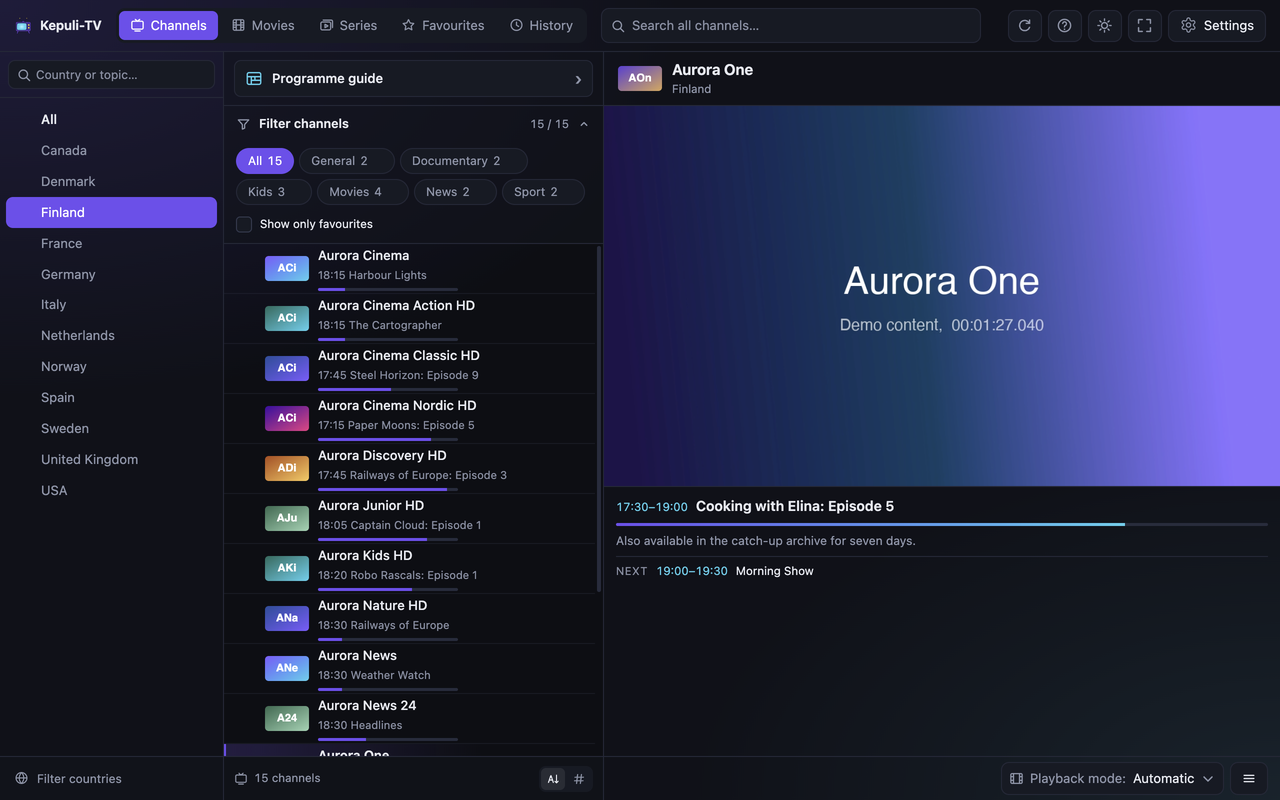
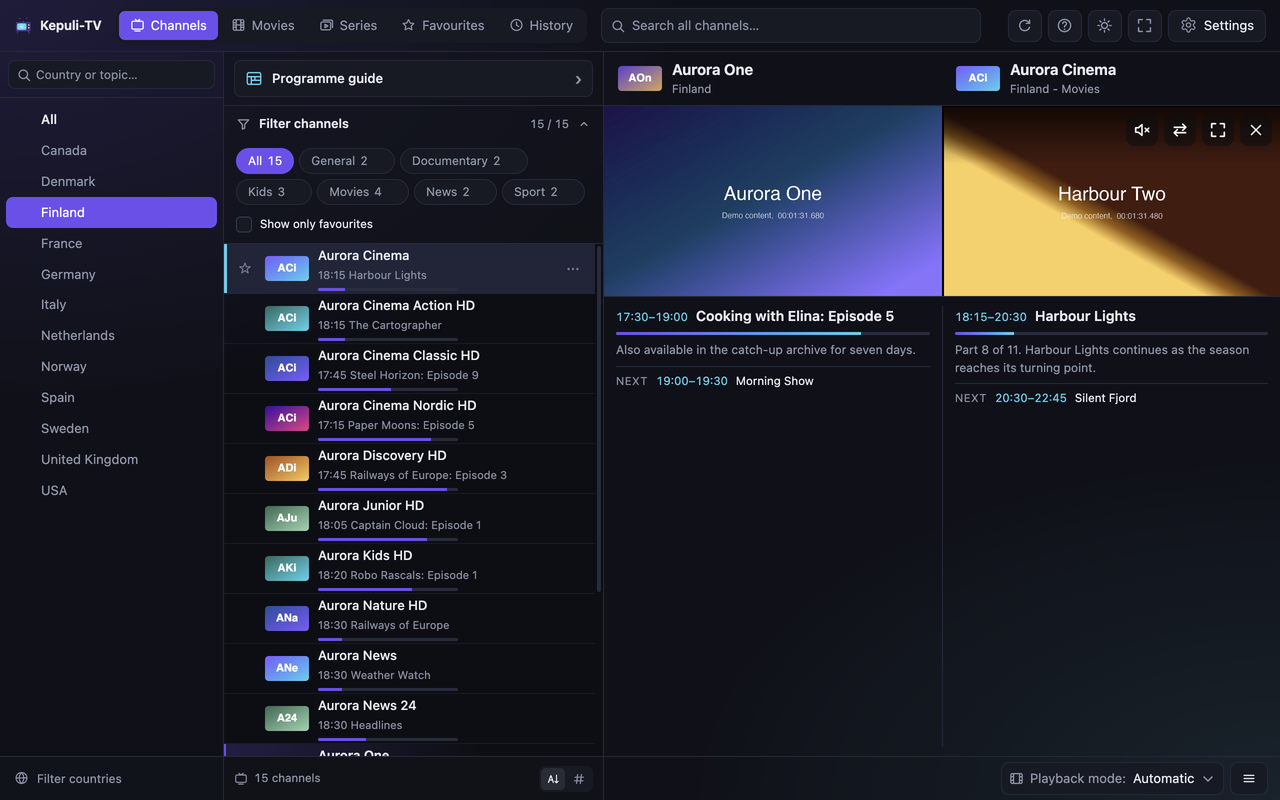
The first store picture shows two channels side by side
The channels view is where the second picture is opened, so the picture of
it plays two channels: dev/store-screenshots.mjs opens one from the row's
menu where the account allows two streams (the mock's does for these
pictures; the hosted demo's one stream leaves its picture as it was). Both
sets' 01-channels are retaken, its caption says so in every language, and
the visual check's three references of that view are the new ones; the
other views compare equal to the pixel and keep theirs.

Claude-Session: https://claude.ai/code/session_011jsMnu9xQB1gHrK5qZugQB

Changed region(s): [[0.1562, 0.0625, 1.0, 0.7188]]

diff --git a/docs/index.html b/docs/index.html
@@ -213,7 +213,7 @@
 </a>
 <p class="video-note">Opens on YouTube. Everything shown is fictional demo content.</p>
 <div class="shots">
-  <figure><a href="img/01-channels.png"><img src="img/01-channels.png" width="1280" height="800" loading="lazy" alt="Browse channels by country and topic while watching live TV."></a><figcaption>Browse channels by country and topic while watching live TV.</figcaption></figure>
+  <figure><a href="img/01-channels.png"><img src="img/01-channels.png" width="1280" height="800" loading="lazy" alt="Browse channels by country and topic while watching live TV. Two channels side by side."></a><figcaption>Browse channels by country and topic while watching live TV. Two channels side by side.</figcaption></figure>
   <figure><a href="img/02-guide.png"><img src="img/02-guide.png" width="1280" height="800" loading="lazy" alt="Explore the programme guide while playback continues in the mini-player."></a><figcaption>Explore the programme guide while playback continues in the mini-player.</figcaption></figure>
   <figure><a href="img/03-series.png"><img src="img/03-series.png" width="1280" height="800" loading="lazy" alt="Browse series details, seasons and episodes."></a><figcaption>Browse series details, seasons and episodes.</figcaption></figure>
   <figure><a href="img/04-subtitles.png"><img src="img/04-subtitles.png" width="1280" height="800" loading="lazy" alt="Play an MKV episode with text subtitles and choose their language and size."></a><figcaption>Play an MKV episode with text subtitles and choose their language and size.</figcaption></figure>
@@ -267,6 +267,8 @@ soon, and the channels you watched lately</li>
 you choose and every audio track, AC-3, E-AC-3 and DTS too</li>
   <li><strong>Recording</strong> of the channel you watch, or a programme planned from the guide,
 kept in the browser and saved as a file when you like</li>
+  <li><strong>Two channels side by side</strong>, when your subscription allows two streams or
+you have a second account</li>
   <li><strong>Favourites</strong> everywhere, personal channel lists, and only the countries and
 categories you choose</li>
   <li><strong>Several accounts</strong> side by side, and sync between computers through the

diff --git a/brand/firefox-screenshots/README.md b/brand/firefox-screenshots/README.md
@@ -14,7 +14,7 @@ would need a 2560 × 1600 window — so this set is captured at 1×.
 
 | File | AMO caption |
 | --- | --- |
-| 01-channels.png | Browse channels by country and topic while watching live TV. Shown with fictional demo content in Firefox. |
+| 01-channels.png | Browse channels by country and topic while watching live TV. Two channels side by side. Shown with fictional demo content in Firefox. |
 | 02-guide.png | Explore the programme guide while playback continues in the mini-player. Shown with fictional demo content in Firefox. |
 | 03-series.png | Browse series details, seasons and episodes. Shown with fictional demo content in Firefox. |
 | 04-subtitles.png | Play an MKV episode with text subtitles and choose their language and size. Shown with fictional demo content in Firefox. |
@@ -35,7 +35,7 @@ store/chrome-dashboard.txt.
 
 | File | Caption |
 | --- | --- |
-| 01-channels.png | Selaa kanavia maittain ja aiheittain samalla, kun katsot suoraa lähetystä. Kuvassa kuvitteellista demosisältöä Firefoxissa. |
+| 01-channels.png | Selaa kanavia maittain ja aiheittain samalla, kun katsot suoraa lähetystä. Kaksi kanavaa rinnakkain. Kuvassa kuvitteellista demosisältöä Firefoxissa. |
 | 02-guide.png | Tutki ohjelmaopasta, kun toisto jatkuu minisoittimessa. Kuvassa kuvitteellista demosisältöä Firefoxissa. |
 | 03-series.png | Selaa sarjan tietoja, tuotantokausia ja jaksoja. Kuvassa kuvitteellista demosisältöä Firefoxissa. |
 | 04-subtitles.png | Toista MKV-jakso tekstityksineen ja valitse tekstityksen kieli ja koko. Kuvassa kuvitteellista demosisältöä Firefoxissa. |
@@ -45,7 +45,7 @@ store/chrome-dashboard.txt.
 
 | File | Caption |
 | --- | --- |
-| 01-channels.png | Bläddra bland kanaler efter land och ämne medan du tittar på live-tv. Visas med påhittat demoinnehåll i Firefox. |
+| 01-channels.png | Bläddra bland kanaler efter land och ämne medan du tittar på live-tv. Två kanaler sida vid sida. Visas med påhittat demoinnehåll i Firefox. |
 | 02-guide.png | Utforska programguiden medan uppspelningen fortsätter i minispelaren. Visas med påhittat demoinnehåll i Firefox. |
 | 03-series.png | Bläddra bland seriens detaljer, säsonger och avsnitt. Visas med påhittat demoinnehåll i Firefox. |
 | 04-subtitles.png | Spela upp ett MKV-avsnitt med undertexter och välj deras språk och storlek. Visas med påhittat demoinnehåll i Firefox. |
@@ -55,7 +55,7 @@ store/chrome-dashboard.txt.
 
 | File | Caption |
 | --- | --- |
-| 01-channels.png | Bla gjennom kanaler etter land og emne mens du ser direkte-TV. Vist med oppdiktet demoinnhold i Firefox. |
+| 01-channels.png | Bla gjennom kanaler etter land og emne mens du ser direkte-TV. To kanaler side ved side. Vist med oppdiktet demoinnhold i Firefox. |
 | 02-guide.png | Utforsk programguiden mens avspillingen fortsetter i minispilleren. Vist med oppdiktet demoinnhold i Firefox. |
 | 03-series.png | Bla gjennom seriedetaljer, sesonger og episoder. Vist med oppdiktet demoinnhold i Firefox. |
 | 04-subtitles.png | Spill av en MKV-episode med undertekster og velg språk og størrelse på dem. Vist med oppdiktet demoinnhold i Firefox. |
@@ -65,7 +65,7 @@ store/chrome-dashboard.txt.
 
 | File | Caption |
 | --- | --- |
-| 01-channels.png | Durchstöbere Sender nach Land und Thema, während du Live-TV schaust. Gezeigt mit erfundenen Demo-Inhalten in Firefox. |
+| 01-channels.png | Durchstöbere Sender nach Land und Thema, während du Live-TV schaust. Zwei Sender nebeneinander. Gezeigt mit erfundenen Demo-Inhalten in Firefox. |
 | 02-guide.png | Erkunde den Programmführer, während die Wiedergabe im Mini-Player weiterläuft. Gezeigt mit erfundenen Demo-Inhalten in Firefox. |
 | 03-series.png | Durchstöbere Seriendetails, Staffeln und Folgen. Gezeigt mit erfundenen Demo-Inhalten in Firefox. |
 | 04-subtitles.png | Spiele eine MKV-Folge mit Untertiteln ab und wähle deren Sprache und Größe. Gezeigt mit erfundenen Demo-Inhalten in Firefox. |
@@ -75,7 +75,7 @@ store/chrome-dashboard.txt.
 
 | File | Caption |
 | --- | --- |
-| 01-channels.png | Blader door zenders op land en onderwerp terwijl je live-tv kijkt. Getoond met verzonnen demo-inhoud in Firefox. |
+| 01-channels.png | Blader door zenders op land en onderwerp terwijl je live-tv kijkt. Twee zenders naast elkaar. Getoond met verzonnen demo-inhoud in Firefox. |
 | 02-guide.png | Verken de programmagids terwijl het afspelen doorgaat in de minispeler. Getoond met verzonnen demo-inhoud in Firefox. |
 | 03-series.png | Bekijk de gegevens, seizoenen en afleveringen van een serie. Getoond met verzonnen demo-inhoud in Firefox. |
 | 04-subtitles.png | Speel een MKV-aflevering af met ondertiteling en kies de taal en grootte ervan. Getoond met verzonnen demo-inhoud in Firefox. |
@@ -85,7 +85,7 @@ store/chrome-dashboard.txt.
 
 | File | Caption |
 | --- | --- |
-| 01-channels.png | Parcours les chaînes par pays et par thème tout en regardant la télé en direct. Présenté avec du contenu de démonstration fictif dans Firefox. |
+| 01-channels.png | Parcours les chaînes par pays et par thème tout en regardant la télé en direct. Deux chaînes côte à côte. Présenté avec du contenu de démonstration fictif dans Firefox. |
 | 02-guide.png | Explore le guide des programmes pendant que la lecture continue dans le mini-lecteur. Présenté avec du contenu de démonstration fictif dans Firefox. |
 | 03-series.png | Parcours les détails d’une série, ses saisons et ses épisodes. Présenté avec du contenu de démonstration fictif dans Firefox. |
 | 04-subtitles.png | Lis un épisode MKV avec ses sous-titres et choisis leur langue et leur taille. Présenté avec du contenu de démonstration fictif dans Firefox. |
@@ -95,7 +95,7 @@ store/chrome-dashboard.txt.
 
 | File | Caption |
 | --- | --- |
-| 01-channels.png | Explora los canales por país y tema mientras ves la televisión en directo. Mostrado con contenido de demostración ficticio en Firefox. |
+| 01-channels.png | Explora los canales por país y tema mientras ves la televisión en directo. Dos canales lado a lado. Mostrado con contenido de demostración ficticio en Firefox. |
 | 02-guide.png | Consulta la guía de programación mientras la reproducción continúa en el minirreproductor. Mostrado con contenido de demostración ficticio en Firefox. |
 | 03-series.png | Explora los detalles de una serie, sus temporadas y sus episodios. Mostrado con contenido de demostración ficticio en Firefox. |
 | 04-subtitles.png | Reproduce un episodio MKV con subtítulos y elige su idioma y su tamaño. Mostrado con contenido de demostración ficticio en Firefox. |
@@ -105,7 +105,7 @@ store/chrome-dashboard.txt.
 
 | File | Caption |
 | --- | --- |
-| 01-channels.png | Navegue pelos canais por país e tema enquanto assiste à TV ao vivo. Exibido com conteúdo de demonstração fictício no Firefox. |
+| 01-channels.png | Navegue pelos canais por país e tema enquanto assiste à TV ao vivo. Dois canais lado a lado. Exibido com conteúdo de demonstração fictício no Firefox. |
 | 02-guide.png | Explore o guia de programação enquanto a reprodução continua no miniplayer. Exibido com conteúdo de demonstração fictício no Firefox. |
 | 03-series.png | Veja os detalhes de uma série, suas temporadas e seus episódios. Exibido com conteúdo de demonstração fictício no Firefox. |
 | 04-subtitles.png | Reproduza um episódio em MKV com legendas e escolha o idioma e o tamanho delas. Exibido com conteúdo de demonstração fictício no Firefox. |
@@ -115,7 +115,7 @@ store/chrome-dashboard.txt.
 
 | File | Caption |
 | --- | --- |
-| 01-channels.png | Sfoglia i canali per paese e argomento mentre guardi la TV in diretta. Mostrato con contenuti dimostrativi fittizi in Firefox. |
+| 01-channels.png | Sfoglia i canali per paese e argomento mentre guardi la TV in diretta. Due canali affiancati. Mostrato con contenuti dimostrativi fittizi in Firefox. |
 | 02-guide.png | Esplora la guida TV mentre la riproduzione continua nel mini player. Mostrato con contenuti dimostrativi fittizi in Firefox. |
 | 03-series.png | Sfoglia i dettagli di una serie, le stagioni e gli episodi. Mostrato con contenuti dimostrativi fittizi in Firefox. |
 | 04-subtitles.png | Riproduci un episodio MKV con i sottotitoli e scegline lingua e dimensione. Mostrato con contenuti dimostrativi fittizi in Firefox. |
@@ -125,7 +125,7 @@ store/chrome-dashboard.txt.
 
 | File | Caption |
 | --- | --- |
-| 01-channels.png | Przeglądaj kanały według kraju i tematu, oglądając telewizję na żywo. Pokazano na fikcyjnych treściach demonstracyjnych w Firefoksie. |
+| 01-channels.png | Przeglądaj kanały według kraju i tematu, oglądając telewizję na żywo. Dwa kanały obok siebie. Pokazano na fikcyjnych treściach demonstracyjnych w Firefoksie. |
 | 02-guide.png | Przeglądaj przewodnik po programach, podczas gdy odtwarzanie trwa w miniodtwarzaczu. Pokazano na fikcyjnych treściach demonstracyjnych w Firefoksie. |
 | 03-series.png | Przeglądaj szczegóły serialu, sezony i odcinki. Pokazano na fikcyjnych treściach demonstracyjnych w Firefoksie. |
 | 04-subtitles.png | Odtwórz odcinek MKV z napisami i wybierz ich język oraz rozmiar. Pokazano na fikcyjnych treściach demonstracyjnych w Firefoksie. |
@@ -135,7 +135,7 @@ store/chrome-dashboard.txt.
 
 | File | Caption |
 | --- | --- |
-| 01-channels.png | Canlı TV izlerken kanallara ülkeye ve konuya göre göz at. Firefox'ta kurgusal demo içerikle gösterilmektedir. |
+| 01-channels.png | Canlı TV izlerken kanallara ülkeye ve konuya göre göz at. İki kanal yan yana. Firefox'ta kurgusal demo içerikle gösterilmektedir. |
 | 02-guide.png | Oynatma mini oynatıcıda sürerken yayın akışını keşfet. Firefox'ta kurgusal demo içerikle gösterilmektedir. |
 | 03-series.png | Bir dizinin ayrıntılarına, sezonlarına ve bölümlerine göz at. Firefox'ta kurgusal demo içerikle gösterilmektedir. |
 | 04-subtitles.png | Bir MKV bölümünü altyazılarıyla oynat, altyazıların dilini ve boyutunu seç. Firefox'ta kurgusal demo içerikle gösterilmektedir. |
@@ -145,7 +145,7 @@ store/chrome-dashboard.txt.
 
 | File | Caption |
 | --- | --- |
-| 01-channels.png | Percorre os canais por país e tema enquanto vês televisão em direto. Apresentado com conteúdo de demonstração fictício no Firefox. |
+| 01-channels.png | Percorre os canais por país e tema enquanto vês televisão em direto. Dois canais lado a lado. Apresentado com conteúdo de demonstração fictício no Firefox. |
 | 02-guide.png | Explora o guia de programação enquanto a reprodução continua no minileitor. Apresentado com conteúdo de demonstração fictício no Firefox. |
 | 03-series.png | Consulta os detalhes de uma série, as temporadas e os episódios. Apresentado com conteúdo de demonstração fictício no Firefox. |
 | 04-subtitles.png | Reproduz um episódio MKV com legendas de texto e escolhe o idioma e o tamanho. Apresentado com conteúdo de demonstração fictício no Firefox. |
@@ -155,7 +155,7 @@ store/chrome-dashboard.txt.
 
 | File | Caption |
 | --- | --- |
-| 01-channels.png | Procházej kanály podle země a tématu a přitom sleduj živé vysílání. Zobrazeno s fiktivním ukázkovým obsahem ve Firefoxu. |
+| 01-channels.png | Procházej kanály podle země a tématu a přitom sleduj živé vysílání. Dva kanály vedle sebe. Zobrazeno s fiktivním ukázkovým obsahem ve Firefoxu. |
 | 02-guide.png | Prohlížej programového průvodce, zatímco přehrávání pokračuje v minipřehrávači. Zobrazeno s fiktivním ukázkovým obsahem ve Firefoxu. |
 | 03-series.png | Procházej podrobnosti seriálu, řady a epizody. Zobrazeno s fiktivním ukázkovým obsahem ve Firefoxu. |
 | 04-subtitles.png | Přehraj epizodu MKV s textovými titulky a vyber jejich jazyk a velikost. Zobrazeno s fiktivním ukázkovým obsahem ve Firefoxu. |
@@ -165,7 +165,7 @@ store/chrome-dashboard.txt.
 
 | File | Caption |
 | --- | --- |
-| 01-channels.png | Prechádzaj kanály podľa krajiny a témy a pritom sleduj živé vysielanie. Zobrazené s fiktívnym ukážkovým obsahom vo Firefoxe. |
+| 01-channels.png | Prechádzaj kanály podľa krajiny a témy a pritom sleduj živé vysielanie. Dva kanály vedľa seba. Zobrazené s fiktívnym ukážkovým obsahom vo Firefoxe. |
 | 02-guide.png | Prezeraj programového sprievodcu, kým prehrávanie pokračuje v miniprehrávači. Zobrazené s fiktívnym ukážkovým obsahom vo Firefoxe. |
 | 03-series.png | Prechádzaj podrobnosti seriálu, série a epizódy. Zobrazené s fiktívnym ukážkovým obsahom vo Firefoxe. |
 | 04-subtitles.png | Prehraj epizódu MKV s textovými titulkami a vyber ich jazyk a veľkosť. Zobrazené s fiktívnym ukážkovým obsahom vo Firefoxe. |
@@ -175,7 +175,7 @@ store/chrome-dashboard.txt.
 
 | File | Caption |
 | --- | --- |
-| 01-channels.png | Brskaj po kanalih po državah in temah, medtem ko gledaš televizijo v živo. Prikazano z izmišljeno predstavitveno vsebino v Firefoxu. |
+| 01-channels.png | Brskaj po kanalih po državah in temah, medtem ko gledaš televizijo v živo. Dva kanala vzporedno. Prikazano z izmišljeno predstavitveno vsebino v Firefoxu. |
 | 02-guide.png | Raziskuj programski vodnik, medtem ko se predvajanje nadaljuje v mini predvajalniku. Prikazano z izmišljeno predstavitveno vsebino v Firefoxu. |
 | 03-series.png | Brskaj po podrobnostih serije, sezonah in epizodah. Prikazano z izmišljeno predstavitveno vsebino v Firefoxu. |
 | 04-subtitles.png | Predvajaj epizodo MKV z besedilnimi podnapisi ter izberi njihov jezik in velikost. Prikazano z izmišljeno predstavitveno vsebino v Firefoxu. |
@@ -185,7 +185,7 @@ store/chrome-dashboard.txt.
 
 | File | Caption |
 | --- | --- |
-| 01-channels.png | Pregledaj kanale po zemlji i temi dok gledaš TV uživo. Prikazano s izmišljenim demo sadržajem u Firefoxu. |
+| 01-channels.png | Pregledaj kanale po zemlji i temi dok gledaš TV uživo. Dva kanala jedno uz drugo. Prikazano s izmišljenim demo sadržajem u Firefoxu. |
 | 02-guide.png | Istraži programski vodič dok se reprodukcija nastavlja u mini reproduktoru. Prikazano s izmišljenim demo sadržajem u Firefoxu. |
 | 03-series.png | Pregledaj pojedinosti serije, sezone i epizode. Prikazano s izmišljenim demo sadržajem u Firefoxu. |
 | 04-subtitles.png | Reproduciraj MKV epizodu s tekstnim titlovima i odaberi njihov jezik i veličinu. Prikazano s izmišljenim demo sadržajem u Firefoxu. |
@@ -195,7 +195,7 @@ store/chrome-dashboard.txt.
 
 | File | Caption |
 | --- | --- |
-| 01-channels.png | Pregledaj kanale po zemlji i temi dok gledaš TV uživo. Prikazano sa izmišljenim demo sadržajem u Firefoxu. |
+| 01-channels.png | Pregledaj kanale po zemlji i temi dok gledaš TV uživo. Dva kanala uporedo. Prikazano sa izmišljenim demo sadržajem u Firefoxu. |
 | 02-guide.png | Istraži programski vodič dok se reprodukcija nastavlja u mini plejeru. Prikazano sa izmišljenim demo sadržajem u Firefoxu. |
 | 03-series.png | Pregledaj detalje serije, sezone i epizode. Prikazano sa izmišljenim demo sadržajem u Firefoxu. |
 | 04-subtitles.png | Pusti MKV epizodu sa tekstualnim titlovima i izaberi njihov jezik i veličinu. Prikazano sa izmišljenim demo sadržajem u Firefoxu. |
@@ -205,7 +205,7 @@ store/chrome-dashboard.txt.
 
 | File | Caption |
 | --- | --- |
-| 01-channels.png | Shfleto kanalet sipas vendit dhe temës ndërsa shikon TV drejtpërdrejt. Paraqitur me përmbajtje demonstruese fiktive në Firefox. |
+| 01-channels.png | Shfleto kanalet sipas vendit dhe temës ndërsa shikon TV drejtpërdrejt. Dy kanale krah për krah. Paraqitur me përmbajtje demonstruese fiktive në Firefox. |
 | 02-guide.png | Eksploro udhërrëfyesin e programeve ndërsa luajtja vazhdon në mini-luajtës. Paraqitur me përmbajtje demonstruese fiktive në Firefox. |
 | 03-series.png | Shfleto detajet e serialit, sezonet dhe episodet. Paraqitur me përmbajtje demonstruese fiktive në Firefox. |
 | 04-subtitles.png | Luaj një episod MKV me titra teksti dhe zgjidh gjuhën dhe madhësinë e tyre. Paraqitur me përmbajtje demonstruese fiktive në Firefox. |
@@ -215,7 +215,7 @@ store/chrome-dashboard.txt.
 
 | File | Caption |
 | --- | --- |
-| 01-channels.png | Разглеждай каналите по държава и тема, докато гледаш телевизия на живо. Показано с измислено демонстрационно съдържание във Firefox. |
+| 01-channels.png | Разглеждай каналите по държава и тема, докато гледаш телевизия на живо. Два канала един до друг. Показано с измислено демонстрационно съдържание във Firefox. |
 | 02-guide.png | Разгледай програмата, докато възпроизвеждането продължава в мини плейъра. Показано с измислено демонстрационно съдържание във Firefox. |
 | 03-series.png | Разглеждай подробностите за сериала, сезоните и епизодите. Показано с измислено демонстрационно съдържание във Firefox. |
 | 04-subtitles.png | Пусни MKV епизод с текстови субтитри и избери езика и размера им. Показано с измислено демонстрационно съдържание във Firefox. |
@@ -225,7 +225,7 @@ store/chrome-dashboard.txt.
 
 | File | Caption |
 | --- | --- |
-| 01-channels.png | Просматривай каналы по странам и темам, пока смотришь прямой эфир. Показан вымышленный демонстрационный контент в Firefox. |
+| 01-channels.png | Просматривай каналы по странам и темам, пока смотришь прямой эфир. Два канала рядом. Показан вымышленный демонстрационный контент в Firefox. |
 | 02-guide.png | Изучай телепрограмму, пока воспроизведение продолжается в мини-плеере. Показан вымышленный демонстрационный контент в Firefox. |
 | 03-series.png | Просматривай сведения о сериале, сезоны и эпизоды. Показан вымышленный демонстрационный контент в Firefox. |
 | 04-subtitles.png | Включи эпизод MKV с текстовыми субтитрами и выбери их язык и размер. Показан вымышленный демонстрационный контент в Firefox. |
@@ -235,7 +235,7 @@ store/chrome-dashboard.txt.
 
 | File | Caption |
 | --- | --- |
-| 01-channels.png | Переглядай канали за країнами й темами, поки дивишся пряму трансляцію. Показано вигаданий демонстраційний вміст у Firefox. |
+| 01-channels.png | Переглядай канали за країнами й темами, поки дивишся пряму трансляцію. Два канали поруч. Показано вигаданий демонстраційний вміст у Firefox. |
 | 02-guide.png | Вивчай телепрограму, поки відтворення триває в мініплеєрі. Показано вигаданий демонстраційний вміст у Firefox. |
 | 03-series.png | Переглядай відомості про серіал, сезони й епізоди. Показано вигаданий демонстраційний вміст у Firefox. |
 | 04-subtitles.png | Увімкни епізод MKV з текстовими субтитрами й обери їхню мову та розмір. Показано вигаданий демонстраційний вміст у Firefox. |
@@ -245,7 +245,7 @@ store/chrome-dashboard.txt.
 
 | File | Caption |
 | --- | --- |
-| 01-channels.png | Περιηγήσου στα κανάλια ανά χώρα και θέμα ενώ βλέπεις ζωντανή τηλεόραση. Εμφανίζεται με φανταστικό περιεχόμενο επίδειξης στον Firefox. |
+| 01-channels.png | Περιηγήσου στα κανάλια ανά χώρα και θέμα ενώ βλέπεις ζωντανή τηλεόραση. Δύο κανάλια δίπλα δίπλα. Εμφανίζεται με φανταστικό περιεχόμενο επίδειξης στον Firefox. |
 | 02-guide.png | Εξερεύνησε τον οδηγό προγράμματος ενώ η αναπαραγωγή συνεχίζεται στο μίνι πρόγραμμα αναπαραγωγής. Εμφανίζεται με φανταστικό περιεχόμενο επίδειξης στον Firefox. |
 | 03-series.png | Δες τις λεπτομέρειες μιας σειράς, τις σεζόν και τα επεισόδιά της. Εμφανίζεται με φανταστικό περιεχόμενο επίδειξης στον Firefox. |
 | 04-subtitles.png | Παίξε ένα επεισόδιο MKV με υπότιτλους κειμένου και διάλεξε τη γλώσσα και το μέγεθός τους. Εμφανίζεται με φανταστικό περιεχόμενο επίδειξης στον Firefox. |
@@ -255,7 +255,7 @@ store/chrome-dashboard.txt.
 
 | File | Caption |
 | --- | --- |
-| 01-channels.png | Răsfoiește canalele după țară și temă în timp ce te uiți la TV în direct. Ilustrat cu conținut demonstrativ fictiv în Firefox. |
+| 01-channels.png | Răsfoiește canalele după țară și temă în timp ce te uiți la TV în direct. Două canale alăturat. Ilustrat cu conținut demonstrativ fictiv în Firefox. |
 | 02-guide.png | Explorează ghidul de programe în timp ce redarea continuă în mini-player. Ilustrat cu conținut demonstrativ fictiv în Firefox. |
 | 03-series.png | Răsfoiește detaliile unui serial, sezoanele și episoadele. Ilustrat cu conținut demonstrativ fictiv în Firefox. |
 | 04-subtitles.png | Redă un episod MKV cu subtitrări text și alege-le limba și dimensiunea. Ilustrat cu conținut demonstrativ fictiv în Firefox. |
@@ -265,7 +265,7 @@ store/chrome-dashboard.txt.
 
 | File | Caption |
 | --- | --- |
-| 01-channels.png | Böngéssz a csatornák között ország és téma szerint, miközben élő adást nézel. Kitalált bemutató tartalommal, Firefoxban. |
+| 01-channels.png | Böngéssz a csatornák között ország és téma szerint, miközben élő adást nézel. Két csatorna egymás mellett. Kitalált bemutató tartalommal, Firefoxban. |
 | 02-guide.png | Fedezd fel a műsorújságot, miközben a lejátszás a minilejátszóban folytatódik. Kitalált bemutató tartalommal, Firefoxban. |
 | 03-series.png | Böngészd a sorozat adatait, évadait és epizódjait. Kitalált bemutató tartalommal, Firefoxban. |
 | 04-subtitles.png | Játssz le egy MKV-epizódot szöveges felirattal, és válaszd ki a felirat nyelvét és méretét. Kitalált bemutató tartalommal, Firefoxban. |
@@ -275,7 +275,7 @@ store/chrome-dashboard.txt.
 
 | File | Caption |
 | --- | --- |
-| 01-channels.png | Naršyk kanalus pagal šalį ir temą, kol žiūri tiesioginę transliaciją. Rodomas išgalvotas demonstracinis turinys Firefox naršyklėje. |
+| 01-channels.png | Naršyk kanalus pagal šalį ir temą, kol žiūri tiesioginę transliaciją. Du kanalai greta. Rodomas išgalvotas demonstracinis turinys Firefox naršyklėje. |
 | 02-guide.png | Peržiūrėk TV programą, kol atkūrimas tęsiasi mini grotuve. Rodomas išgalvotas demonstracinis turinys Firefox naršyklėje. |
 | 03-series.png | Naršyk serialo informaciją, sezonus ir epizodus. Rodomas išgalvotas demonstracinis turinys Firefox naršyklėje. |
 | 04-subtitles.png | Paleisk MKV epizodą su tekstiniais subtitrais ir pasirink jų kalbą bei dydį. Rodomas išgalvotas demonstracinis turinys Firefox naršyklėje. |
@@ -285,7 +285,7 @@ store/chrome-dashboard.txt.
 
 | File | Caption |
 | --- | --- |
-| 01-channels.png | Pārlūko kanālus pēc valsts un tēmas, kamēr skaties tiešraidi. Parādīts izdomāts demonstrācijas saturs pārlūkā Firefox. |
+| 01-channels.png | Pārlūko kanālus pēc valsts un tēmas, kamēr skaties tiešraidi. Divi kanāli blakus. Parādīts izdomāts demonstrācijas saturs pārlūkā Firefox. |
 | 02-guide.png | Izpēti TV programmu, kamēr atskaņošana turpinās mini atskaņotājā. Parādīts izdomāts demonstrācijas saturs pārlūkā Firefox. |
 | 03-series.png | Pārlūko seriāla informāciju, sezonas un sērijas. Parādīts izdomāts demonstrācijas saturs pārlūkā Firefox. |
 | 04-subtitles.png | Atskaņo MKV sēriju ar teksta subtitriem un izvēlies to valodu un izmēru. Parādīts izdomāts demonstrācijas saturs pārlūkā Firefox. |
@@ -295,7 +295,7 @@ store/chrome-dashboard.txt.
 
 | File | Caption |
 | --- | --- |
-| 01-channels.png | Sirvi kanaleid riigi ja teema järgi, samal ajal otsesaadet vaadates. Näidatud väljamõeldud demosisuga Firefoxis. |
+| 01-channels.png | Sirvi kanaleid riigi ja teema järgi, samal ajal otsesaadet vaadates. Kaks kanalit kõrvuti. Näidatud väljamõeldud demosisuga Firefoxis. |
 | 02-guide.png | Uuri telekava, samal ajal kui taasesitus jätkub minimängijas. Näidatud väljamõeldud demosisuga Firefoxis. |
 | 03-series.png | Sirvi sarja andmeid, hooaegu ja osi. Näidatud väljamõeldud demosisuga Firefoxis. |
 | 04-subtitles.png | Esita MKV-osa tekstisubtiitritega ning vali nende keel ja suurus. Näidatud väljamõeldud demosisuga Firefoxis. |
@@ -305,7 +305,7 @@ store/chrome-dashboard.txt.
 
 | File | Caption |
 | --- | --- |
-| 01-channels.png | Jelajahi saluran menurut negara dan topik sambil menonton TV langsung. Ditampilkan dengan konten demo fiktif di Firefox. |
+| 01-channels.png | Jelajahi saluran menurut negara dan topik sambil menonton TV langsung. Dua saluran berdampingan. Ditampilkan dengan konten demo fiktif di Firefox. |
 | 02-guide.png | Jelajahi panduan acara sementara pemutaran berlanjut di pemutar mini. Ditampilkan dengan konten demo fiktif di Firefox. |
 | 03-series.png | Lihat detail serial, musim, dan episodenya. Ditampilkan dengan konten demo fiktif di Firefox. |
 | 04-subtitles.png | Putar episode MKV dengan subtitle teks dan pilih bahasa serta ukurannya. Ditampilkan dengan konten demo fiktif di Firefox. |
@@ -315,7 +315,7 @@ store/chrome-dashboard.txt.
 
 | File | Caption |
 | --- | --- |
-| 01-channels.png | Duyệt kênh theo quốc gia và chủ đề trong khi xem truyền hình trực tiếp. Minh họa bằng nội dung demo hư cấu trên Firefox. |
+| 01-channels.png | Duyệt kênh theo quốc gia và chủ đề trong khi xem truyền hình trực tiếp. Hai kênh song song. Minh họa bằng nội dung demo hư cấu trên Firefox. |
 | 02-guide.png | Khám phá lịch phát sóng trong khi video vẫn phát ở trình phát thu nhỏ. Minh họa bằng nội dung demo hư cấu trên Firefox. |
 | 03-series.png | Xem thông tin phim bộ, các mùa và các tập. Minh họa bằng nội dung demo hư cấu trên Firefox. |
 | 04-subtitles.png | Phát một tập MKV có phụ đề văn bản, chọn ngôn ngữ và cỡ chữ của phụ đề. Minh họa bằng nội dung demo hư cấu trên Firefox. |
